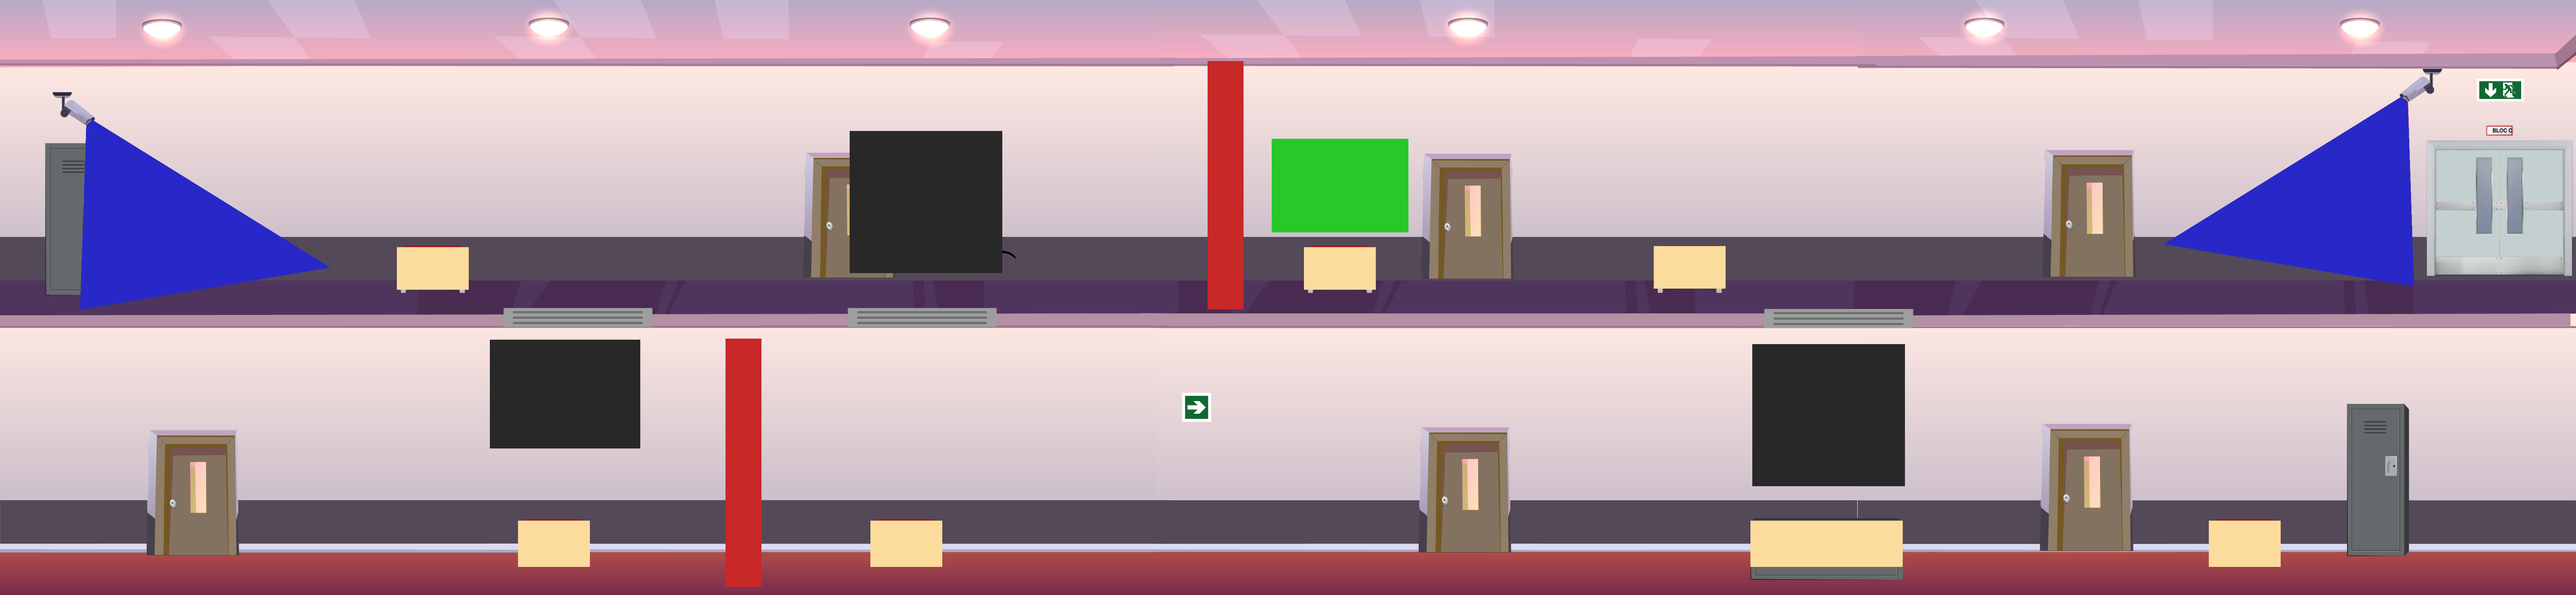
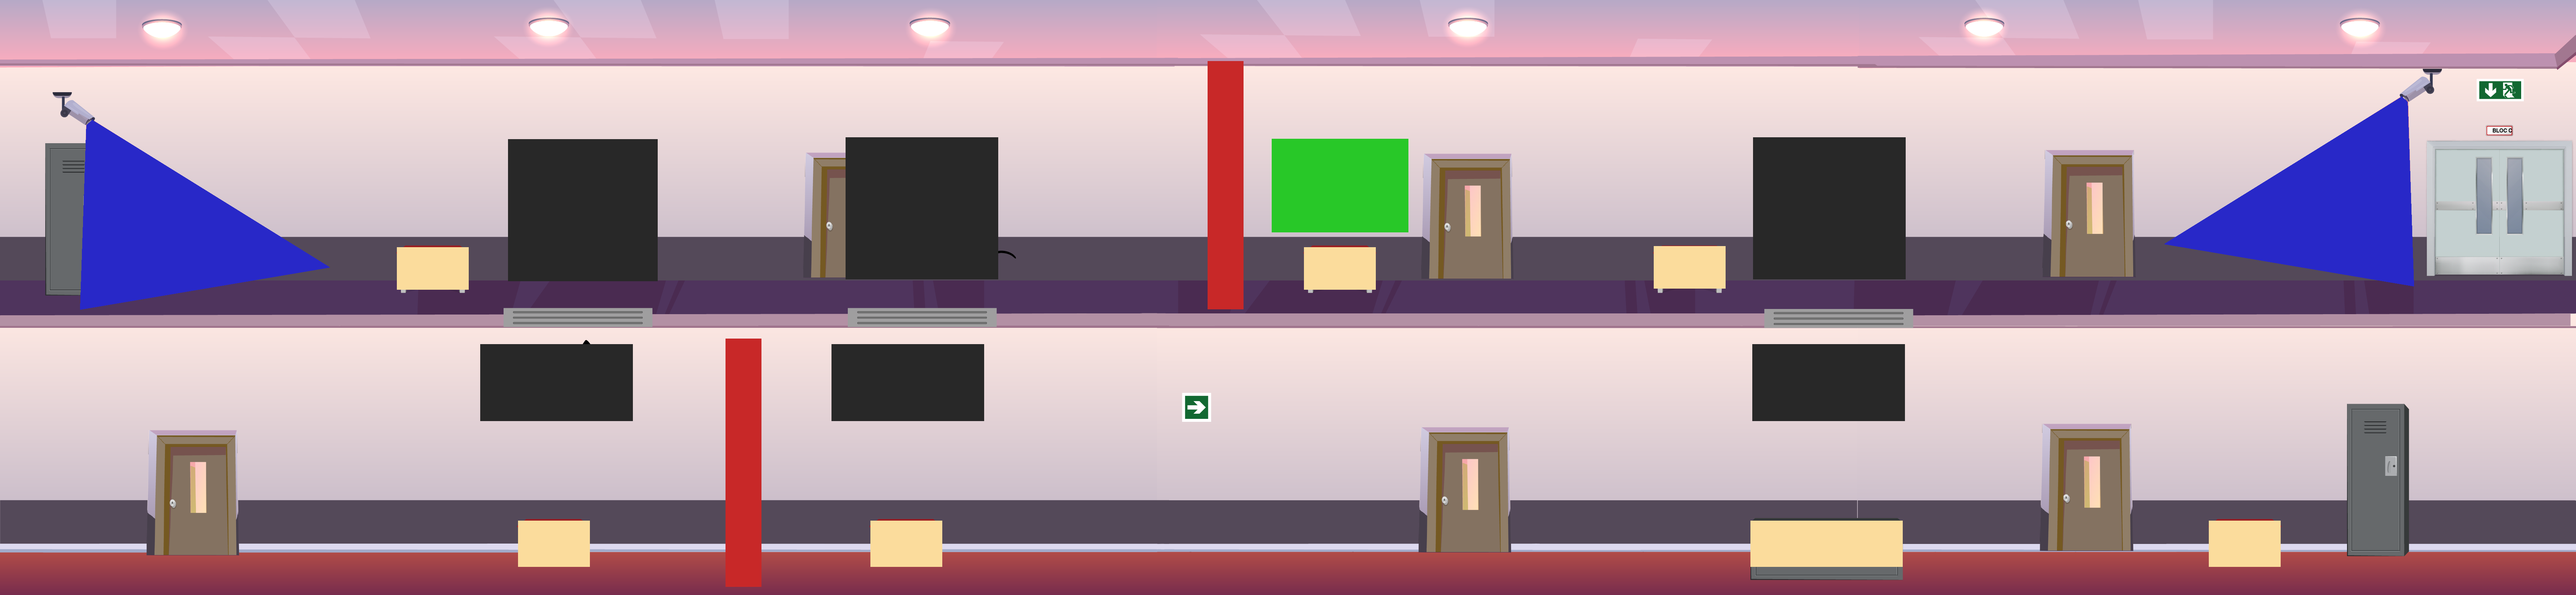
added the second level

diff --git a/game_m/background.c b/game_m/background.c
@@ -102,6 +102,10 @@ void run_game(background* bg, player* P, SDL_Rect *rect, SDL_Surface* screen, in
 			//SDL_BlitSurface(bg->S, 0, screen, &(bg->R));
 			//printf("\n bg pos x : %d\n bg pos y : %d",bg->R.x,bg->R.y);
 			//printf("\n limit : %d",*limit);
+			printf("\n det_black = %d ", det_black);
+			printf("\n det_red = %d ", det_red);
+			printf("\n det_green = %d ", det_green);
+			printf("\n det_blue = %d ", det_blue);
 			
 			if (det_green != 0){
 				if(*level==1){
@@ -147,7 +151,6 @@ void run_game(background* bg, player* P, SDL_Rect *rect, SDL_Surface* screen, in
 			}
 			Uint8* keys = SDL_GetKeyState(NULL);	
 			if(!(*game_ended)){
-			
 				if (*level == 1){
 					if (rect->x>1385){
 						if (keys[SDLK_UP] && bg->R.y < 0){
@@ -164,6 +167,21 @@ void run_game(background* bg, player* P, SDL_Rect *rect, SDL_Surface* screen, in
 						}
 					}
 				}
+				if(*level == 3){
+					if (det_black!=0 && keys[SDLK_UP] && bg->R.y < 0){
+						bg->R.y=0;
+						b1->y+=SCREEN_HEIGHT*.85;
+						b2->y+=SCREEN_HEIGHT*.85;
+						dest->y+=SCREEN_HEIGHT*.85;
+					}
+					if (det_black!=0 && keys[SDLK_DOWN] && bg->R.y == 0){
+						bg->R.y=-SCREEN_HEIGHT*.85;
+								b1->y-=SCREEN_HEIGHT*.85;
+								b2->y-=SCREEN_HEIGHT*.85;
+								dest->y-=SCREEN_HEIGHT*.85;
+					}
+				}
+				
 				if (keys[SDLK_RIGHT]){
 					Uint32 current_time = SDL_GetTicks();
 					if (current_time - last_move_time >= move_interval){

diff --git a/game_m/mainn.c b/game_m/mainn.c
@@ -204,11 +204,11 @@ printf("Could not initialize SDL: %s.\n", SDL_GetError());
 screen=SDL_SetVideoMode(SCREEN_W, SCREEN_H, 0,SDL_RESIZABLE);
 
   int t;
-  int det_black;
-  int det_green;
-  int det_red;
-  int det_blue;
-  int e1_stage=0;
+  int det_black = 0;
+  int det_green = 0;
+  int det_red = 0;
+  int det_blue = 0;
+  int e1_stage = 0 ;
 
 //----------------------------------------------------------------
 /*DECLARATION OF ANIMATIONS
@@ -350,7 +350,7 @@ if (level == 1){
 if (level == 3){
 	lvl_depl++;
 	t=collisionPP(p.cor,bg.M[1],bg.R,251, 220, 156);
-	det_black=collisionPP(p.cor,bg.M[1],bg.R,200, 200, 200);
+	det_black=collisionPP(p.cor,bg.M[1],bg.R,40, 40, 40);
 	det_green=collisionPP(p.cor,bg.M[1],bg.R,40, 200, 40);
 	det_red=collisionPP(p.cor,bg.M[1],bg.R,200, 40, 40);
 	det_blue=collisionPP(p.cor,bg.M[1],bg.R,40, 40, 200);
@@ -371,7 +371,7 @@ run_game(&bg, &P, &p.cor, screen, SCREEN_W, SCREEN_H, &g_e_a, 180, &anim_frame, 
 affichertemps(screen,temps,SCREEN_W,SCREEN_H);
 //printf("\nt = %d\n",start_time);
 //printf("\nbg pos = %d",bg.R.x);
-printf("\ncol = %d",t);
+//printf("\ncol = %d",t);
 
 xp_map=p.cor.x-bg.R.x;
 SDL_Rect RP;
